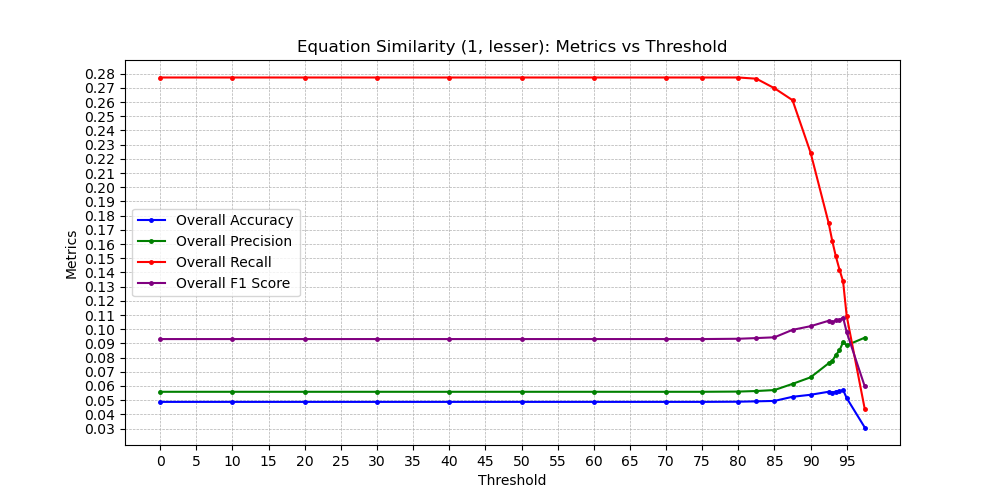
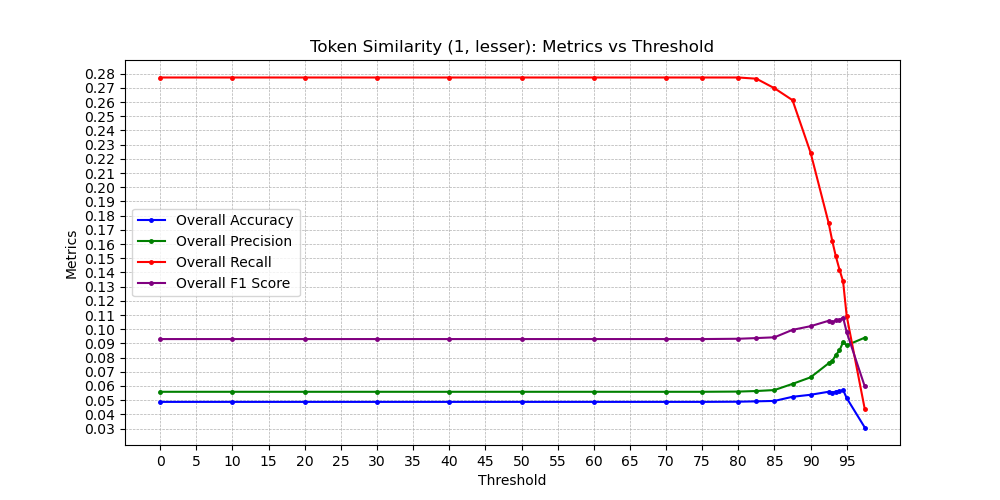
rename

Changed region(s): [[0.279, 0.06, 0.744, 0.12]]

diff --git a/plot_results.py b/plot_results.py
@@ -6,18 +6,18 @@ import matplotlib.pyplot as plt
 from collections import defaultdict
 
 
-EQUATION_SIMILARITY_PATH = './outputs/Equation_Similarity'
+TOKEN_SIMILARITY_PATH = './outputs/Token_Similarity'
 NAIVE_BAYES_PATH = './outputs/Naive_Bayes'
 PLOT_PATH = './outputs/plots'
 
 
-# Plot equation similarity results
-def plot_equation_similarity(alg_num_threshold, alg_direction):
+# Plot token similarity results
+def plot_token_similarity(alg_num_threshold, alg_direction):
 
     # Extract threshold 
     def extract_threshold(filename):
         # Extract the numeric value from the filename
-        match = re.search(fr'equation_similarity_{alg_num_threshold}_(\d+\.?\d*)_{alg_direction}', filename)
+        match = re.search(fr'token_similarity_{alg_num_threshold}_(\d+\.?\d*)_{alg_direction}', filename)
         if match:
             return float(match.group(1))
         return None
@@ -31,9 +31,9 @@ def plot_equation_similarity(alg_num_threshold, alg_direction):
     thresholds = []
     data_files = []
 
-    for filename in os.listdir(EQUATION_SIMILARITY_PATH):
-        if filename.endswith('.json') and f'equation_similarity_{alg_num_threshold}_' in filename and f'{alg_direction}' in filename:
-            file_path = os.path.join(EQUATION_SIMILARITY_PATH, filename)
+    for filename in os.listdir(TOKEN_SIMILARITY_PATH):
+        if filename.endswith('.json') and f'token_similarity_{alg_num_threshold}_' in filename and f'{alg_direction}' in filename:
+            file_path = os.path.join(TOKEN_SIMILARITY_PATH, filename)
             with open(file_path, 'r') as file:
                 data = json.load(file)
                 accuracy = data["Correctness"]["Overall Correctness"]["Overall Accuracy"]
@@ -72,12 +72,12 @@ def plot_equation_similarity(alg_num_threshold, alg_direction):
     plt.plot(sorted_thresholds, sorted_f1_scores, linestyle='-', marker='.', markersize=5, color='purple', label='Overall F1 Score')
     plt.xlabel('Threshold')
     plt.ylabel('Metrics')
-    plt.title(f'Equation Similarity ({alg_num_threshold}, {alg_direction}): Metrics vs Threshold')
+    plt.title(f'Token Similarity ({alg_num_threshold}, {alg_direction}): Metrics vs Threshold')
     plt.xticks(range(int(min(thresholds)), int(max(thresholds))+1, 5))
     plt.yticks(y_ticks)
     plt.grid(True, which='both', linestyle='--', linewidth=0.5)
     plt.legend()
-    plot_filename = os.path.join(PLOT_PATH, f'equation_similarity_{alg_num_threshold}_{alg_direction}_metrics_plot.png')
+    plot_filename = os.path.join(PLOT_PATH, f'token_similarity_{alg_num_threshold}_{alg_direction}_metrics_plot.png')
     plt.savefig(plot_filename)
     plt.show()
 
@@ -133,10 +133,10 @@ def plot_equation_similarity(alg_num_threshold, alg_direction):
     # Plot box plot
     fig, ax = plt.subplots(figsize=(10, 5))
     ax.bxp(box_plot_data)
-    ax.set_title(f'Aggregate Correctness Statistics Box Plot at Threshold {max_f1_threshold}')
+    ax.set_title(f'Aggregate Token Similarity Correctness Statistics Box Plot at Threshold {max_f1_threshold}')
     ax.set_ylabel('Values')
     ax.grid(True, linestyle='--', linewidth=0.5)
-    box_plot_filename = os.path.join(PLOT_PATH, f'equation_similarity_{alg_num_threshold}_{alg_direction}_box_plot.png')
+    box_plot_filename = os.path.join(PLOT_PATH, f'token_similarity_{alg_num_threshold}_{alg_direction}_box_plot.png')
     plt.savefig(box_plot_filename)
     plt.show()
 
@@ -166,8 +166,8 @@ def plot_equation_similarity(alg_num_threshold, alg_direction):
     ax.set_xlabel('Values')
     ax.set_yticks([1, 2, 3, 4])
     ax.set_yticklabels(['Accuracy', 'Precision', 'Recall', 'F1 Score'])
-    ax.set_title(f'Aggregate Correctness Statistics Line Plot at Threshold {max_f1_threshold}')
-    line_plot_filename = os.path.join(PLOT_PATH, f'equation_similarity_{alg_num_threshold}_{alg_direction}_line_plot.png')
+    ax.set_title(f'Aggregate Token Similarity Correctness Statistics Line Plot at Threshold {max_f1_threshold}')
+    line_plot_filename = os.path.join(PLOT_PATH, f'token_similarity_{alg_num_threshold}_{alg_direction}_line_plot.png')
     plt.savefig(line_plot_filename)
     plt.show()
     plt.show()
@@ -313,7 +313,7 @@ def plot_naive_bayes():
     # Plot box plot
     fig, ax = plt.subplots(figsize=(10, 5))
     ax.bxp(box_plot_data)
-    ax.set_title(f'Aggregate Correctness Statistics Box Plot at {max_f1_percentage}% Training ({max_f1_data["Correctness"]["Number of articles used"]} articles tested)')
+    ax.set_title(f'Aggregate Naive Bayes Correctness Statistics Box Plot at {max_f1_percentage}% Training ({max_f1_data["Correctness"]["Number of articles used"]} articles tested)')
     ax.set_ylabel('Values')
     ax.grid(True, linestyle='--', linewidth=0.5)
     box_plot_filename = os.path.join(PLOT_PATH, f'naive_bayes_box_plot.png')
@@ -346,7 +346,7 @@ def plot_naive_bayes():
     ax.set_xlabel('Values')
     ax.set_yticks([1, 2, 3, 4])
     ax.set_yticklabels(['Accuracy', 'Precision', 'Recall', 'F1 Score'])
-    ax.set_title(f'Aggregate Correctness Statistics Line Plot at {max_f1_percentage}% Training ({max_f1_data["Correctness"]["Number of articles used"]} articles tested)')
+    ax.set_title(f'Aggregate Naive Bayes Correctness Statistics Line Plot at {max_f1_percentage}% Training ({max_f1_data["Correctness"]["Number of articles used"]} articles tested)')
     line_plot_filename = os.path.join(PLOT_PATH, f'naive_bayes_line_plot.png')
     plt.savefig(line_plot_filename)
     plt.show()
@@ -358,21 +358,20 @@ if __name__ == '__main__':
 
     parser = argparse.ArgumentParser(description="Which results to plot")
     parser.add_argument("-r", "--results", required=True,
-    choices=['equation_similarity_1_greater', 'equation_similarity_1_lesser',
-             'equation_similarity_2_greater', 'equation_similarity_2_lesser',
+    choices=['token_similarity_1_greater', 'token_similarity_1_lesser',
+             'token_similarity_2_greater', 'token_similarity_2_lesser',
              'naive_bayes'],
-    help="Which results to plot : ['equation_similarity_1_greater', 'equation_similarity_1_lesser', 'equation_similarity_2_greater', 'equation_similarity_2_lesser', 'naive_bayes']")
+    help="Which results to plot : ['token_similarity_1_greater', 'token_similarity_1_lesser', 'token_similarity_2_greater', 'token_similarity_2_lesser', 'naive_bayes']")
     args = parser.parse_args()
 
     argument = args.results
-    if argument == 'equation_similarity_1_greater':
-        # equation_similarity_1_greater()
-        plot_equation_similarity(1, 'greater')
-    elif argument == 'equation_similarity_1_lesser':
-        plot_equation_similarity(1, 'lesser')
-    elif argument == 'equation_similarity_2_greater':
-        plot_equation_similarity(2, 'greater')
-    elif argument == 'equation_similarity_2_lesser':
-        plot_equation_similarity(2, 'lesser')
+    if argument == 'token_similarity_1_greater':
+        plot_token_similarity(1, 'greater')
+    elif argument == 'token_similarity_1_lesser':
+        plot_token_similarity(1, 'lesser')
+    elif argument == 'token_similarity_2_greater':
+        plot_token_similarity(2, 'greater')
+    elif argument == 'token_similarity_2_lesser':
+        plot_token_similarity(2, 'lesser')
     elif argument == 'naive_bayes':
         plot_naive_bayes()
